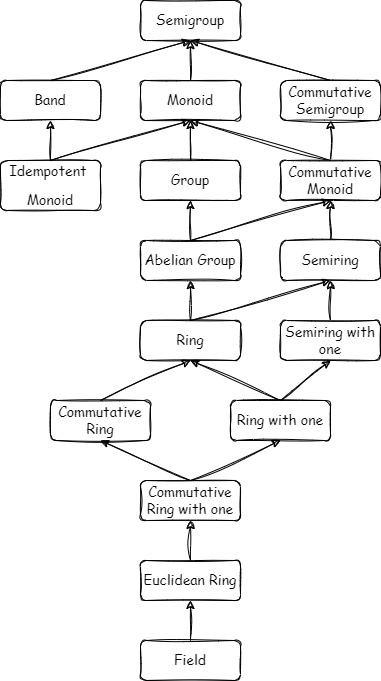
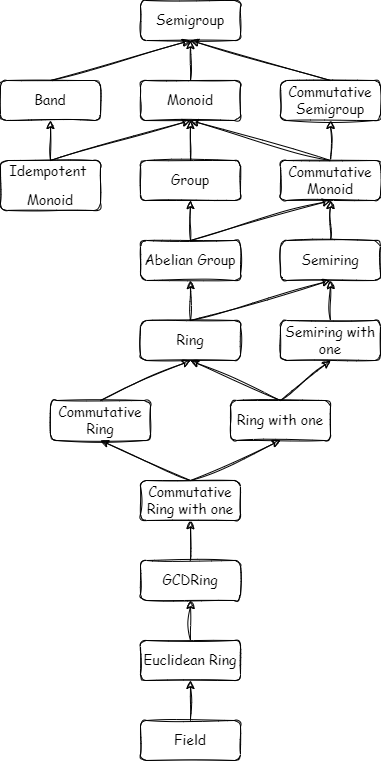
Add Spire library

Changed region(s): [[0.0, 0.0, 1.0, 1.0], [0.3465, 0.9868, 0.4042, 1.0], [0.6063, 0.9868, 0.6352, 1.0]]

diff --git a/docs/typeclass/monoid/gcdring.md b/docs/typeclass/monoid/gcdring.md
@@ -1,0 +1,94 @@
+# Кольца НОД
+
+Кольца НОД - [коммутативное кольцо с единицей](cring-with-one.md)
+с добавлением наибольшего общего делителя и наименьшего общего кратного.
+
+Кольца НОД поддерживают следующие операции:
+
+- `gcd`: наибольший общий делитель
+- `lcm`: наименьшее общее кратное
+
+Для Кольца НОД должны соблюдаться законы родителей:
+
+- _Замыкание по сложению_ (_closure_): для `∀ x, y ∈ S` выполняется `x + y ∈ S`
+- _Ассоциативность по сложению_ (_associativity_): для `∀ x, y, z ∈ S` выполняется `(x + y) + z = x + (y + z)`
+- _Тождественность по сложению_ (_identity_): существует `∃ e ∈ S` такой, что для `∀ x ∈ S` выполняется `e + x = x + e = x`
+- _Обратимость по сложению_: для каждого `x ∈ S` существует \\(x^{-1}\\) такой,
+  что x * \\(x^{-1}\\) == \\(x^{-1}\\) * x == e
+- _Коммутативность по сложению_ (_commutative_): для `∀ x, y ∈ S` выполняется `x + y = y + x`
+- _Замыкание по умножению_ (_closure_): для `∀ x, y ∈ S` выполняется `x * y ∈ S`
+- _Ассоциативность по умножению_ (_associativity_): для `∀ x, y, z ∈ S` выполняется `(x * y) * z = x * (y * z)`
+- _Тождественность по умножению_ (_identity_): существует `∃ o ∈ S` такой, что для `∀ x ∈ S` выполняется `o * x = x * o = x`
+- _Коммутативность по умножению_ (_commutative_): для `∀ x, y ∈ S` выполняется `x * y = y * x`
+- _Дистрибутивность_ (_distributivus_, _распределительный закон_):
+  Для любых `∀ x, y, z ∈ S` выполняется `x * (y + z) = x * y + x * z` и `(x + y) * z = x * z + y * z`.
+
+, а также следующие законы:
+
+- `d * m === a * b` для `d = gcd(a, b)` и `m = lcm(a, b)`,
+- `gcd` ассоциативен и коммутативен,
+- `lcm` ассоциативен и коммутативен.
+
+## Описание
+
+```dotty
+trait GCDRing[A] extends CRingWithUnity[A]:
+  def gcd(x: A, y: A): A
+
+  def lcm(x: A, y: A): A
+```
+
+## Примеры
+
+### Числа относительно сложения с 0 и умножения с 1
+
+`(Z, +, *)`
+
+```dotty
+given GCDRing[Int] with
+  val empty: Int                   = 0
+  val one: Int                     = 1
+  def combine(x: Int, y: Int): Int = x + y
+  def times(x: Int, y: Int): Int   = x * y
+  def gcd(x: Int, y: Int): Int =
+    if y == 0 then x else gcd(y, x % y)
+  def lcm(x: Int, y: Int): Int = times(x, y) / gcd(x, y)
+
+  extension (a: Int) override def inverse: Int = -a
+```
+
+## Реализация
+
+### Реализация в Spire
+
+```dotty
+import spire.algebra.GCDRing
+import spire.math.Rational
+import spire.std.int.*
+
+GCDRing.plus(Rational(1, 2), Rational(1, 3))
+// val res0: spire.math.Rational = 5/6
+GCDRing.times(Rational(1, 2), Rational(1, 3))
+// val res1: spire.math.Rational = 1/6
+GCDRing.pow(Rational(1, 2), 3)
+// val res2: spire.math.Rational = 1/8
+GCDRing.negate(Rational(1, 2))
+// val res3: spire.math.Rational = -1/2
+GCDRing.minus(Rational(1, 2), Rational(1, 3))
+// val res4: spire.math.Rational = 1/6
+GCDRing.zero[Rational]
+// val res5: spire.math.Rational = 0
+GCDRing.one[Rational]
+// val res6: spire.math.Rational = 1
+GCDRing.gcd(15, 10)
+// val res7: Int = 5
+GCDRing.lcm(15, 10)
+// val res8: Int = 30
+```
+
+---
+
+**Ссылки:**
+
+- [Spire home page](https://typelevel.org/spire)
+- [Spire User's Guide](https://typelevel.org/spire/guide.html)

diff --git a/docs/libs/spire/rings.md b/docs/libs/spire/rings.md
@@ -154,6 +154,31 @@ Spire требует, чтобы эти операции были коммута
 либо определение, расширяющее определение, 
 используемое для целочисленного кольца (`gcd(a / b, c / d) == gcd(a, c) / lcm(b, d)`).
 
+```dotty
+import spire.algebra.GCDRing
+import spire.math.Rational
+import spire.std.int.*
+
+GCDRing.plus(Rational(1, 2), Rational(1, 3))
+// val res0: spire.math.Rational = 5/6
+GCDRing.times(Rational(1, 2), Rational(1, 3))
+// val res1: spire.math.Rational = 1/6
+GCDRing.pow(Rational(1, 2), 3)
+// val res2: spire.math.Rational = 1/8
+GCDRing.negate(Rational(1, 2))
+// val res3: spire.math.Rational = -1/2
+GCDRing.minus(Rational(1, 2), Rational(1, 3))
+// val res4: spire.math.Rational = 1/6
+GCDRing.zero[Rational]
+// val res5: spire.math.Rational = 0
+GCDRing.one[Rational]
+// val res6: spire.math.Rational = 1
+GCDRing.gcd(15, 10)
+// val res7: Int = 5
+GCDRing.lcm(15, 10)
+// val res8: Int = 30
+```
+
 ## EuclideanRing
 
 Spire поддерживает евклидовы кольца (называемые `EuclideanRing[A]`). 
